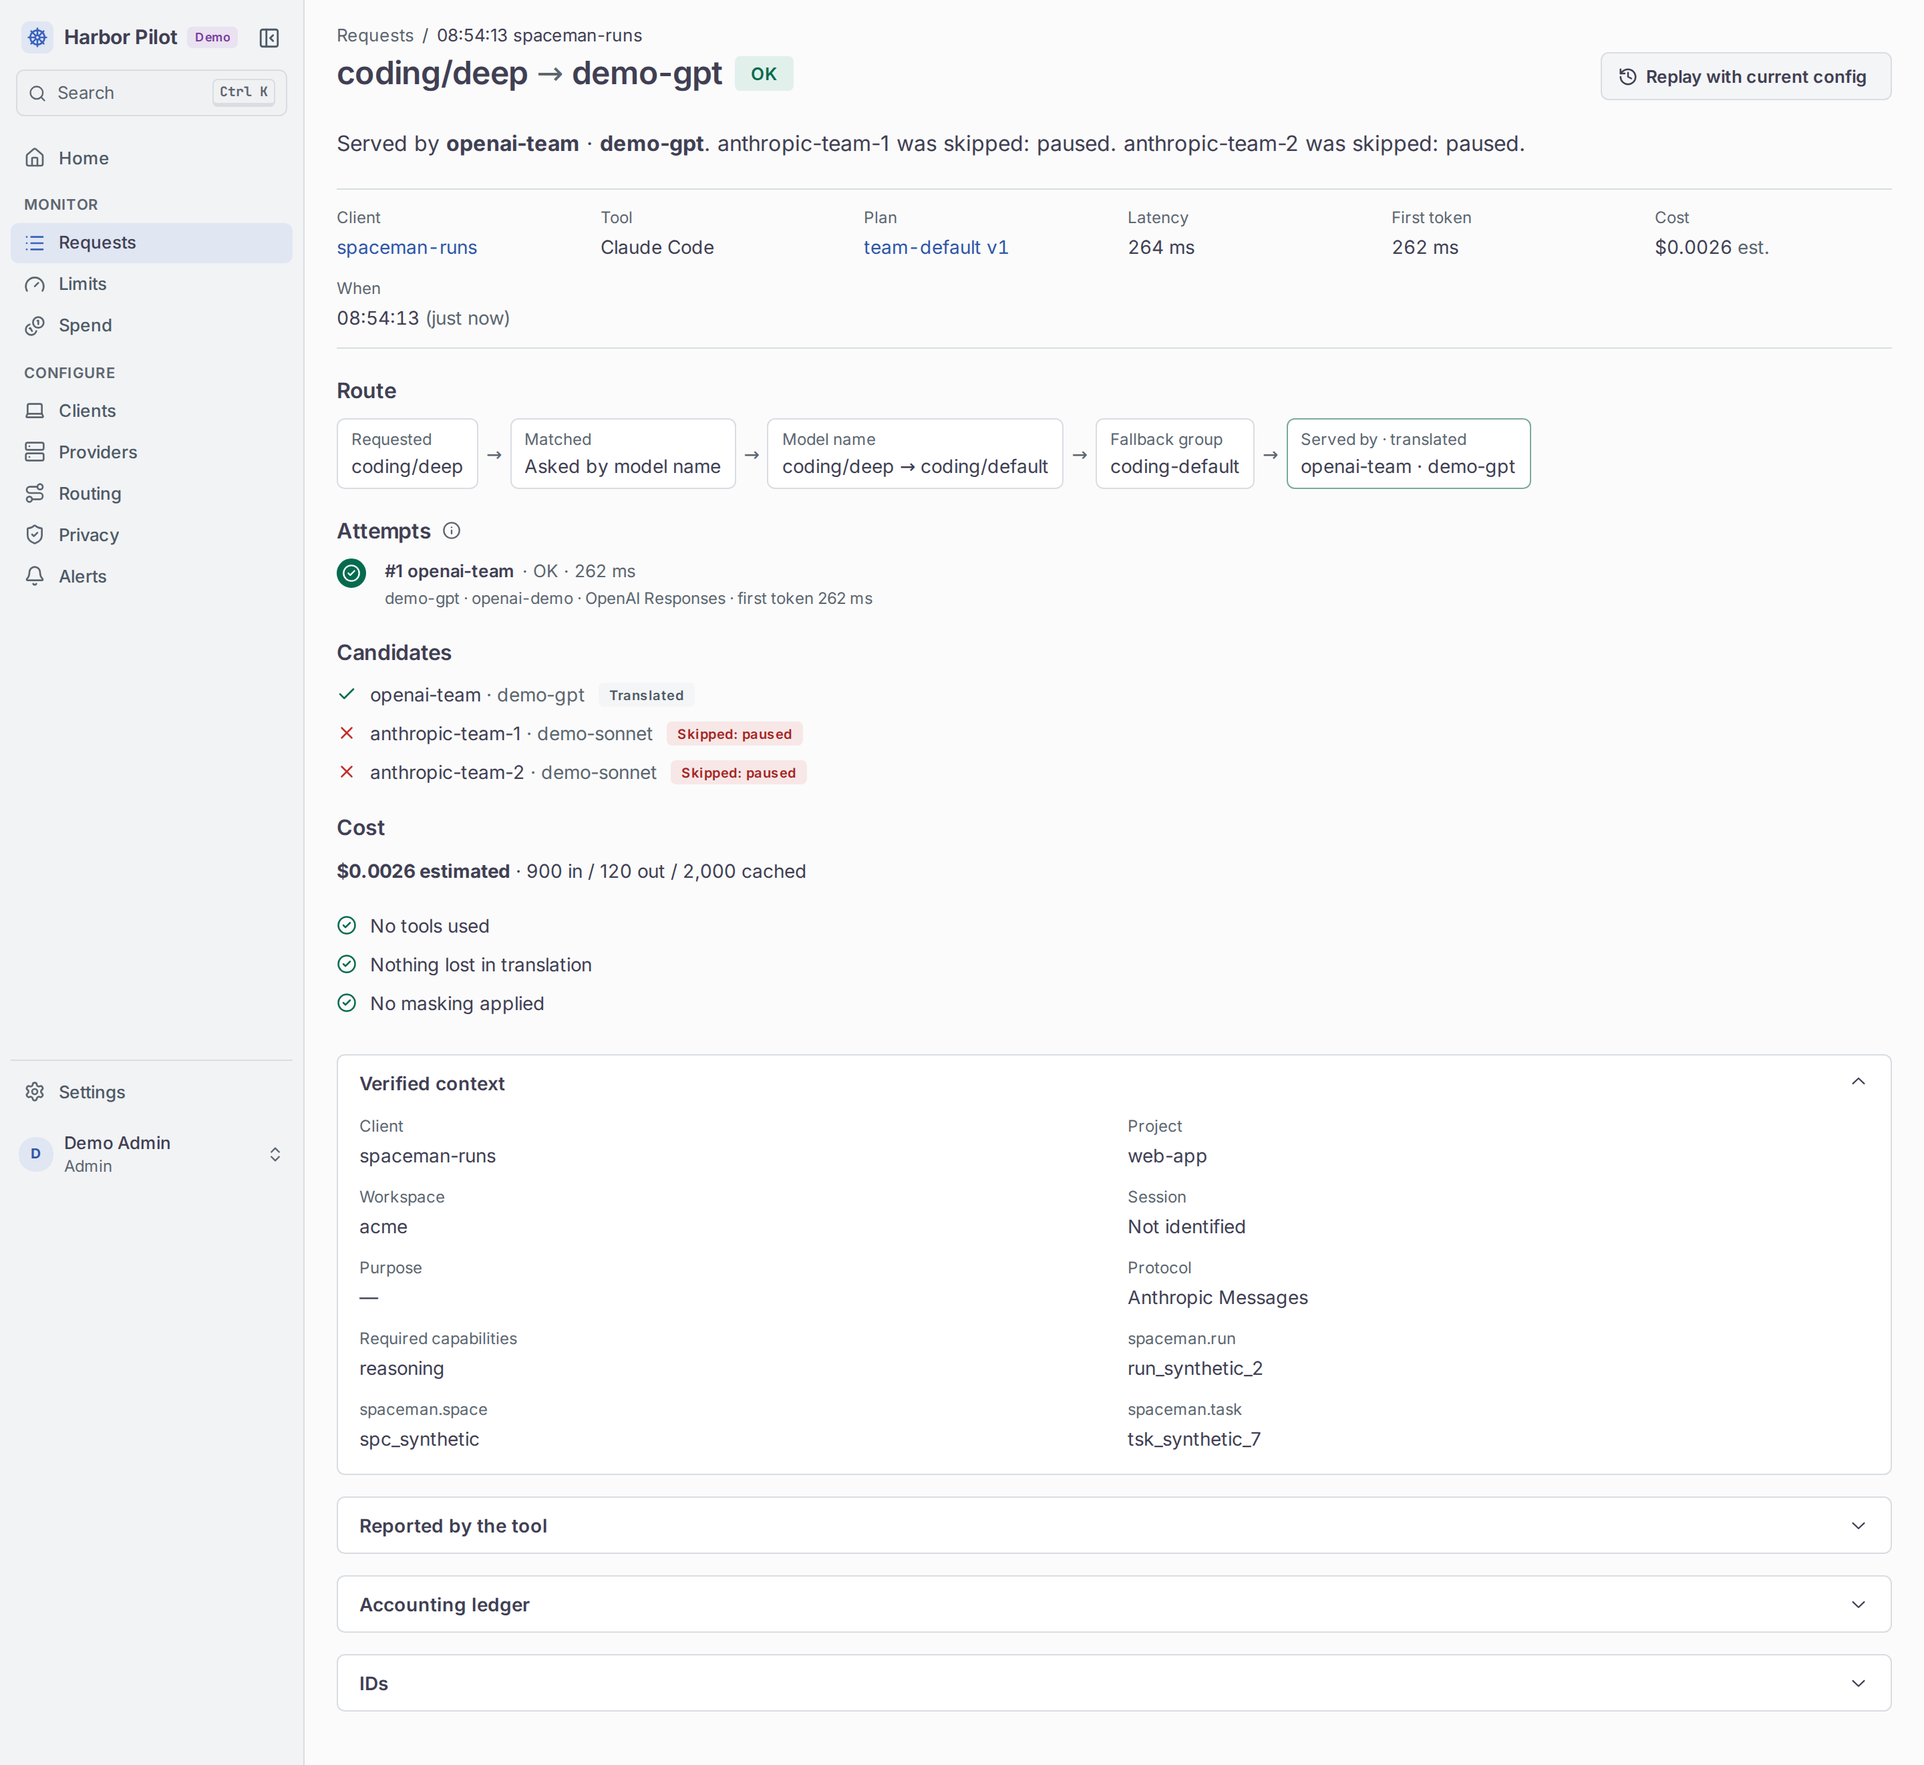
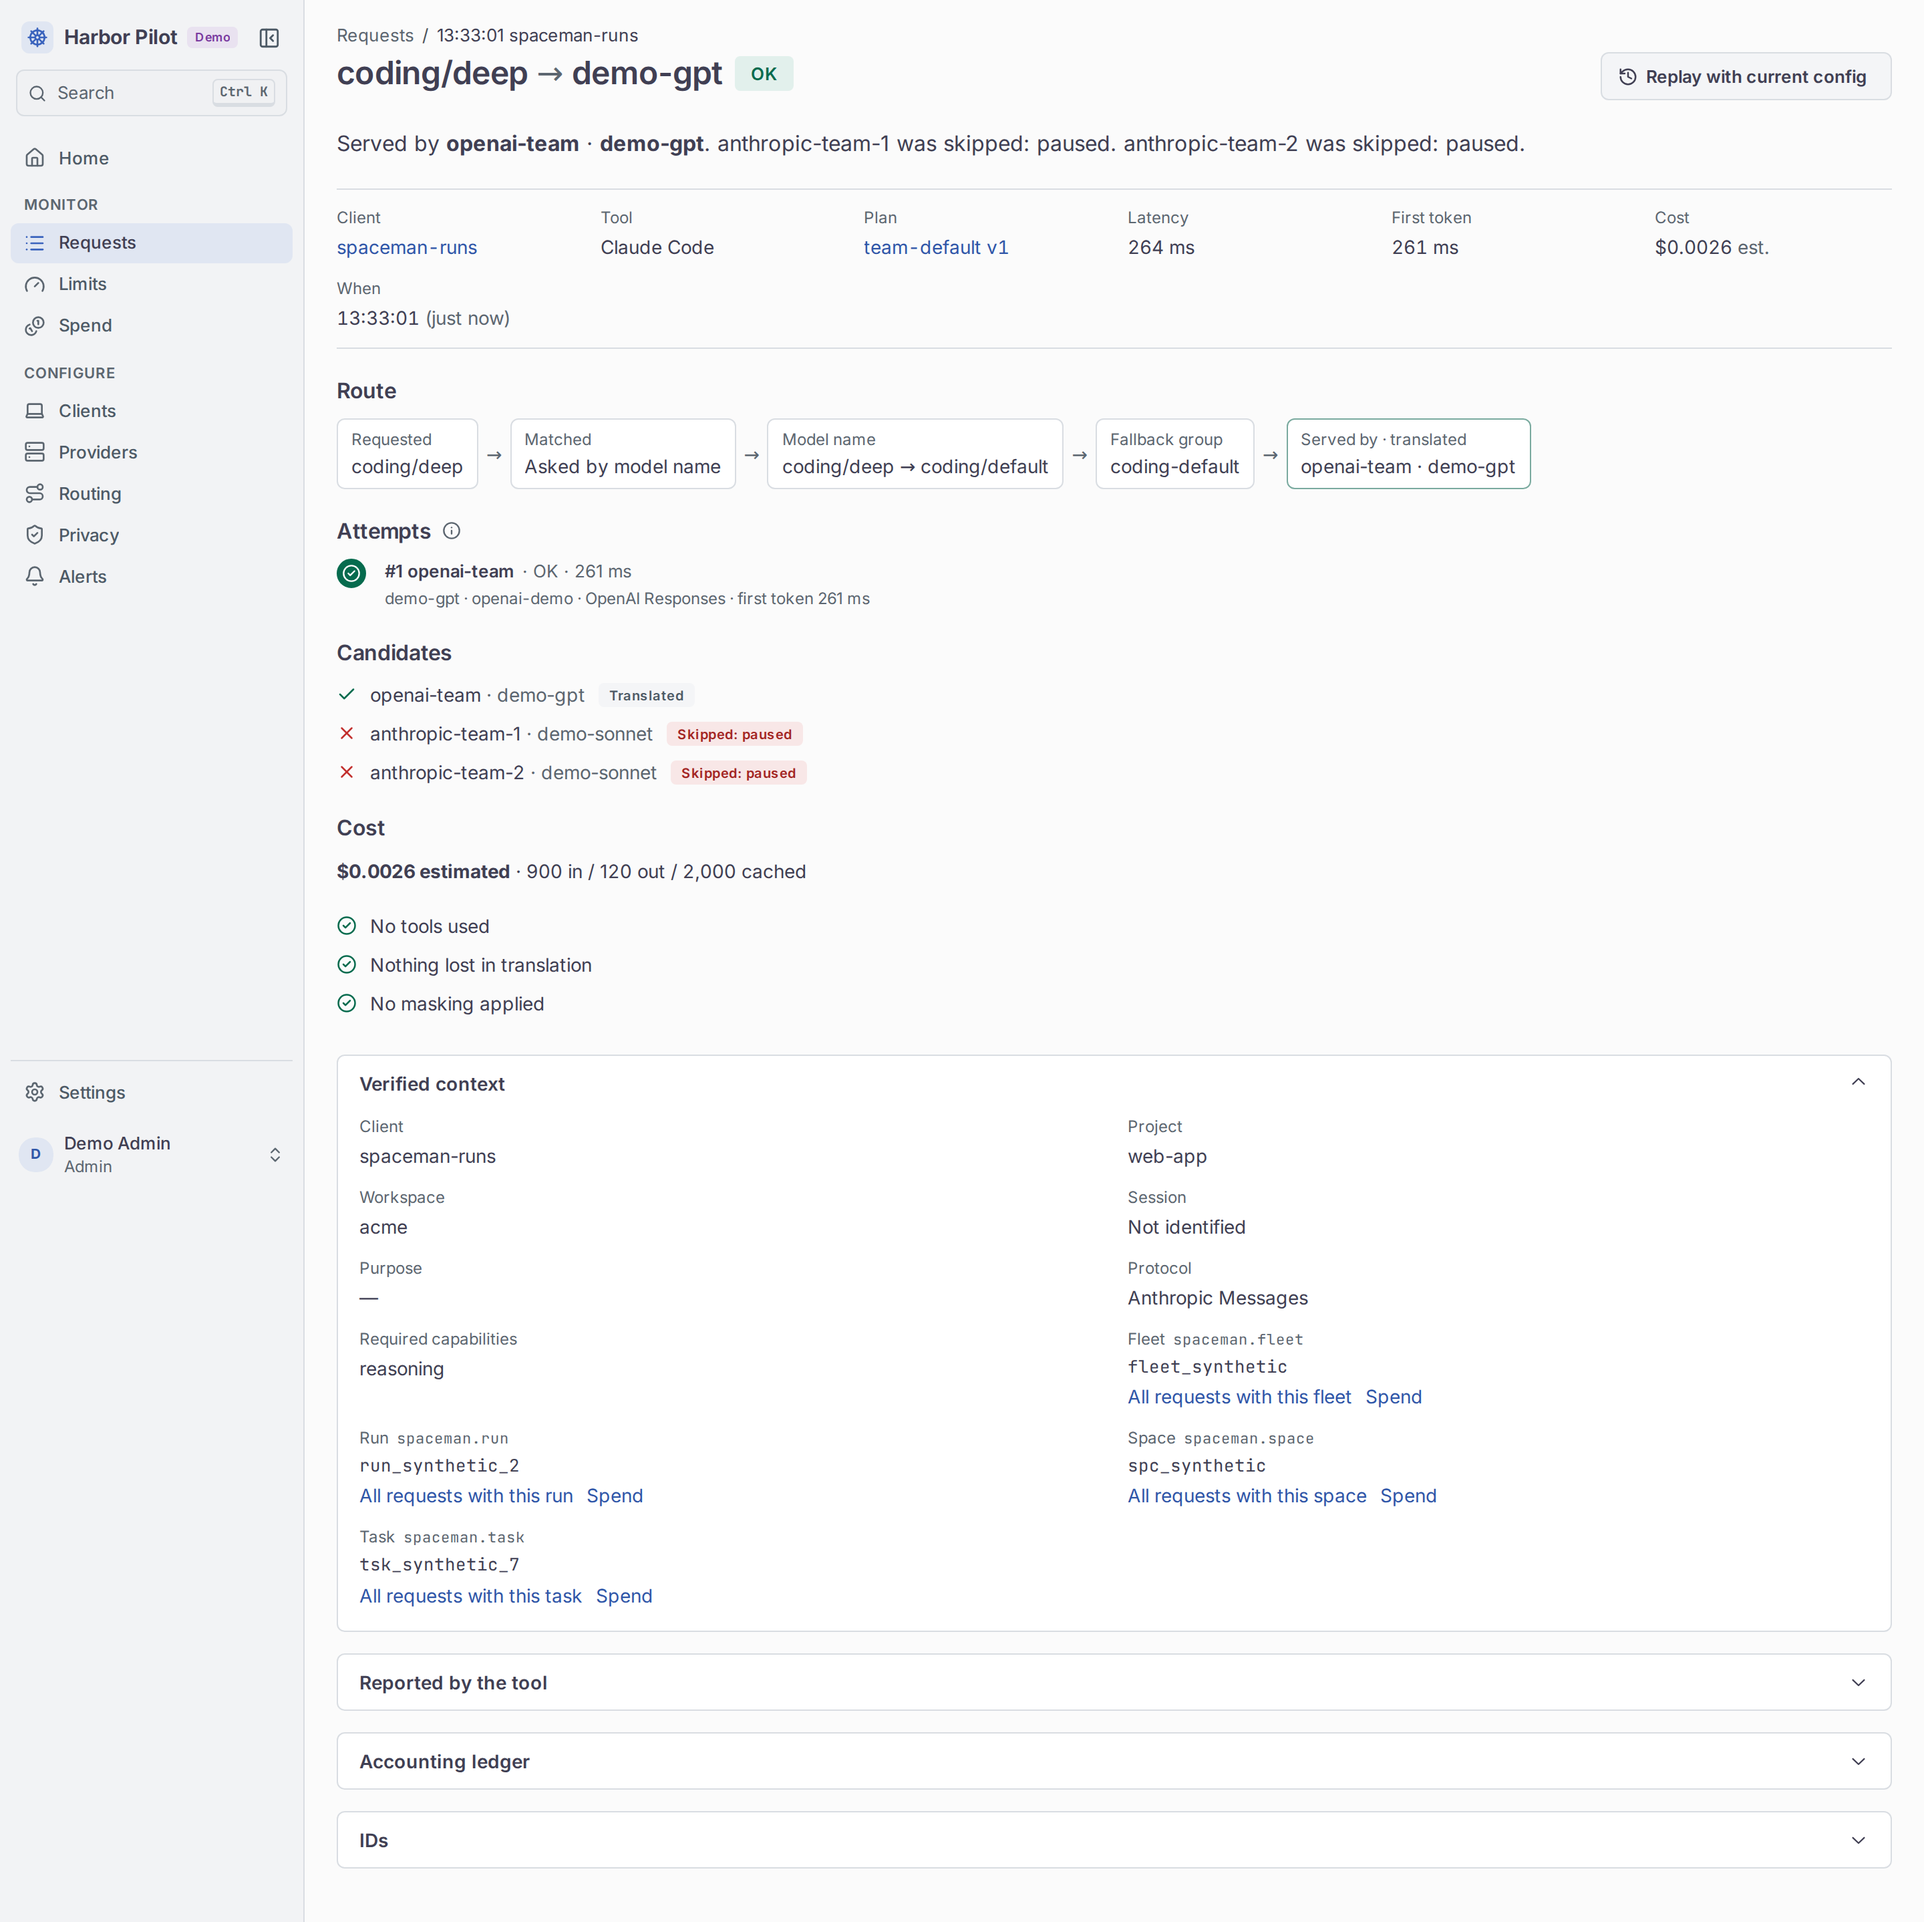
docs: refresh the spend and request-run-refs screenshots
Regenerated with make screenshots on the batch head; both shots are
current again.

diff --git a/docs/SCREENSHOTS.md b/docs/SCREENSHOTS.md
@@ -24,8 +24,8 @@
 | `requests-sessions` | Claude Code, Requests and "why this route" | Requests grouped by session | current |
 | `request` | Concepts, Connect your first tool, Requests and "why this route", Site landing | A request that failed over: "why this route", route, attempts, candidates (also on a phone) | current |
 | `request-replay` | Requests and "why this route" | Replay with current config drawer with a result | current |
-| `request-run-refs` | Agent orchestrators | A run token's request with its trusted references under Verified context | stale: regenerate (the demo client now pins spaceman.fleet) |
-| `spend` | Site landing, Spend | Spend over time, cost categories kept separate | stale |
+| `request-run-refs` | Agent orchestrators | A run token's request with its trusted references under Verified context | current |
+| `spend` | Site landing, Spend | Spend over time, cost categories kept separate | current |
 | `spend-breakdown` | Spend | Spend breakdown by client, project and model | current |
 | `limits` | Limits: quotas and budgets, Site landing | Limits overview: accounts, tightest windows, budgets (also on a phone) | current |
 | `limits-tracking` | Limits: quotas and budgets | Quota tracking: trackers and the accounts they route for | current |
